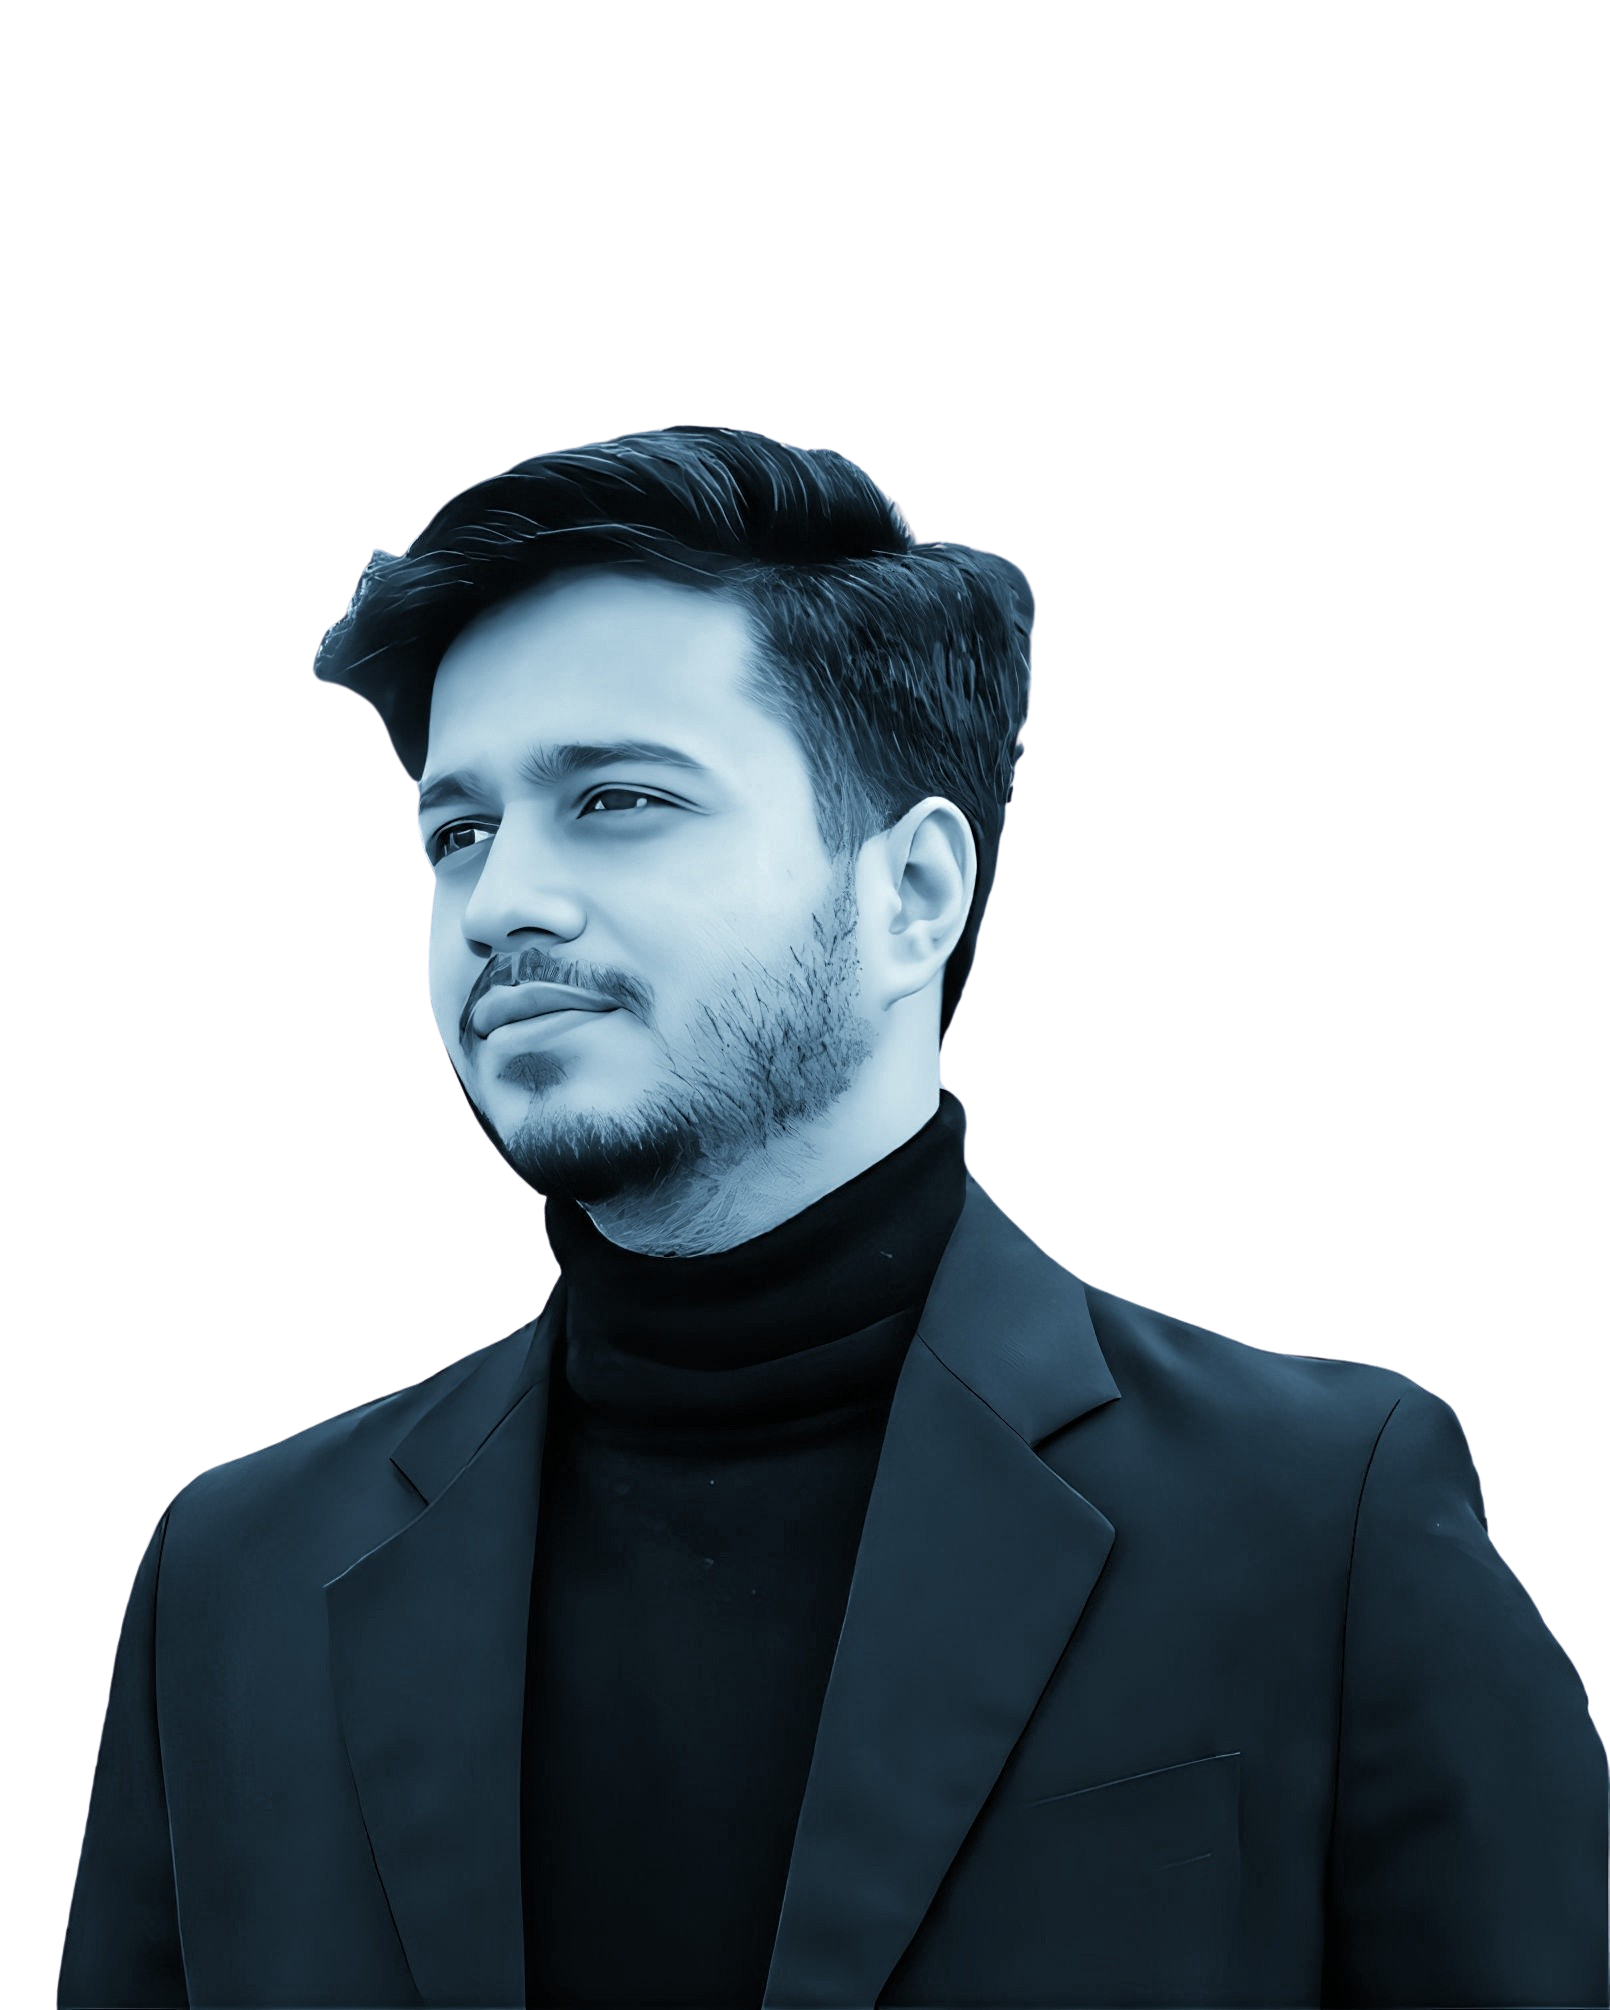
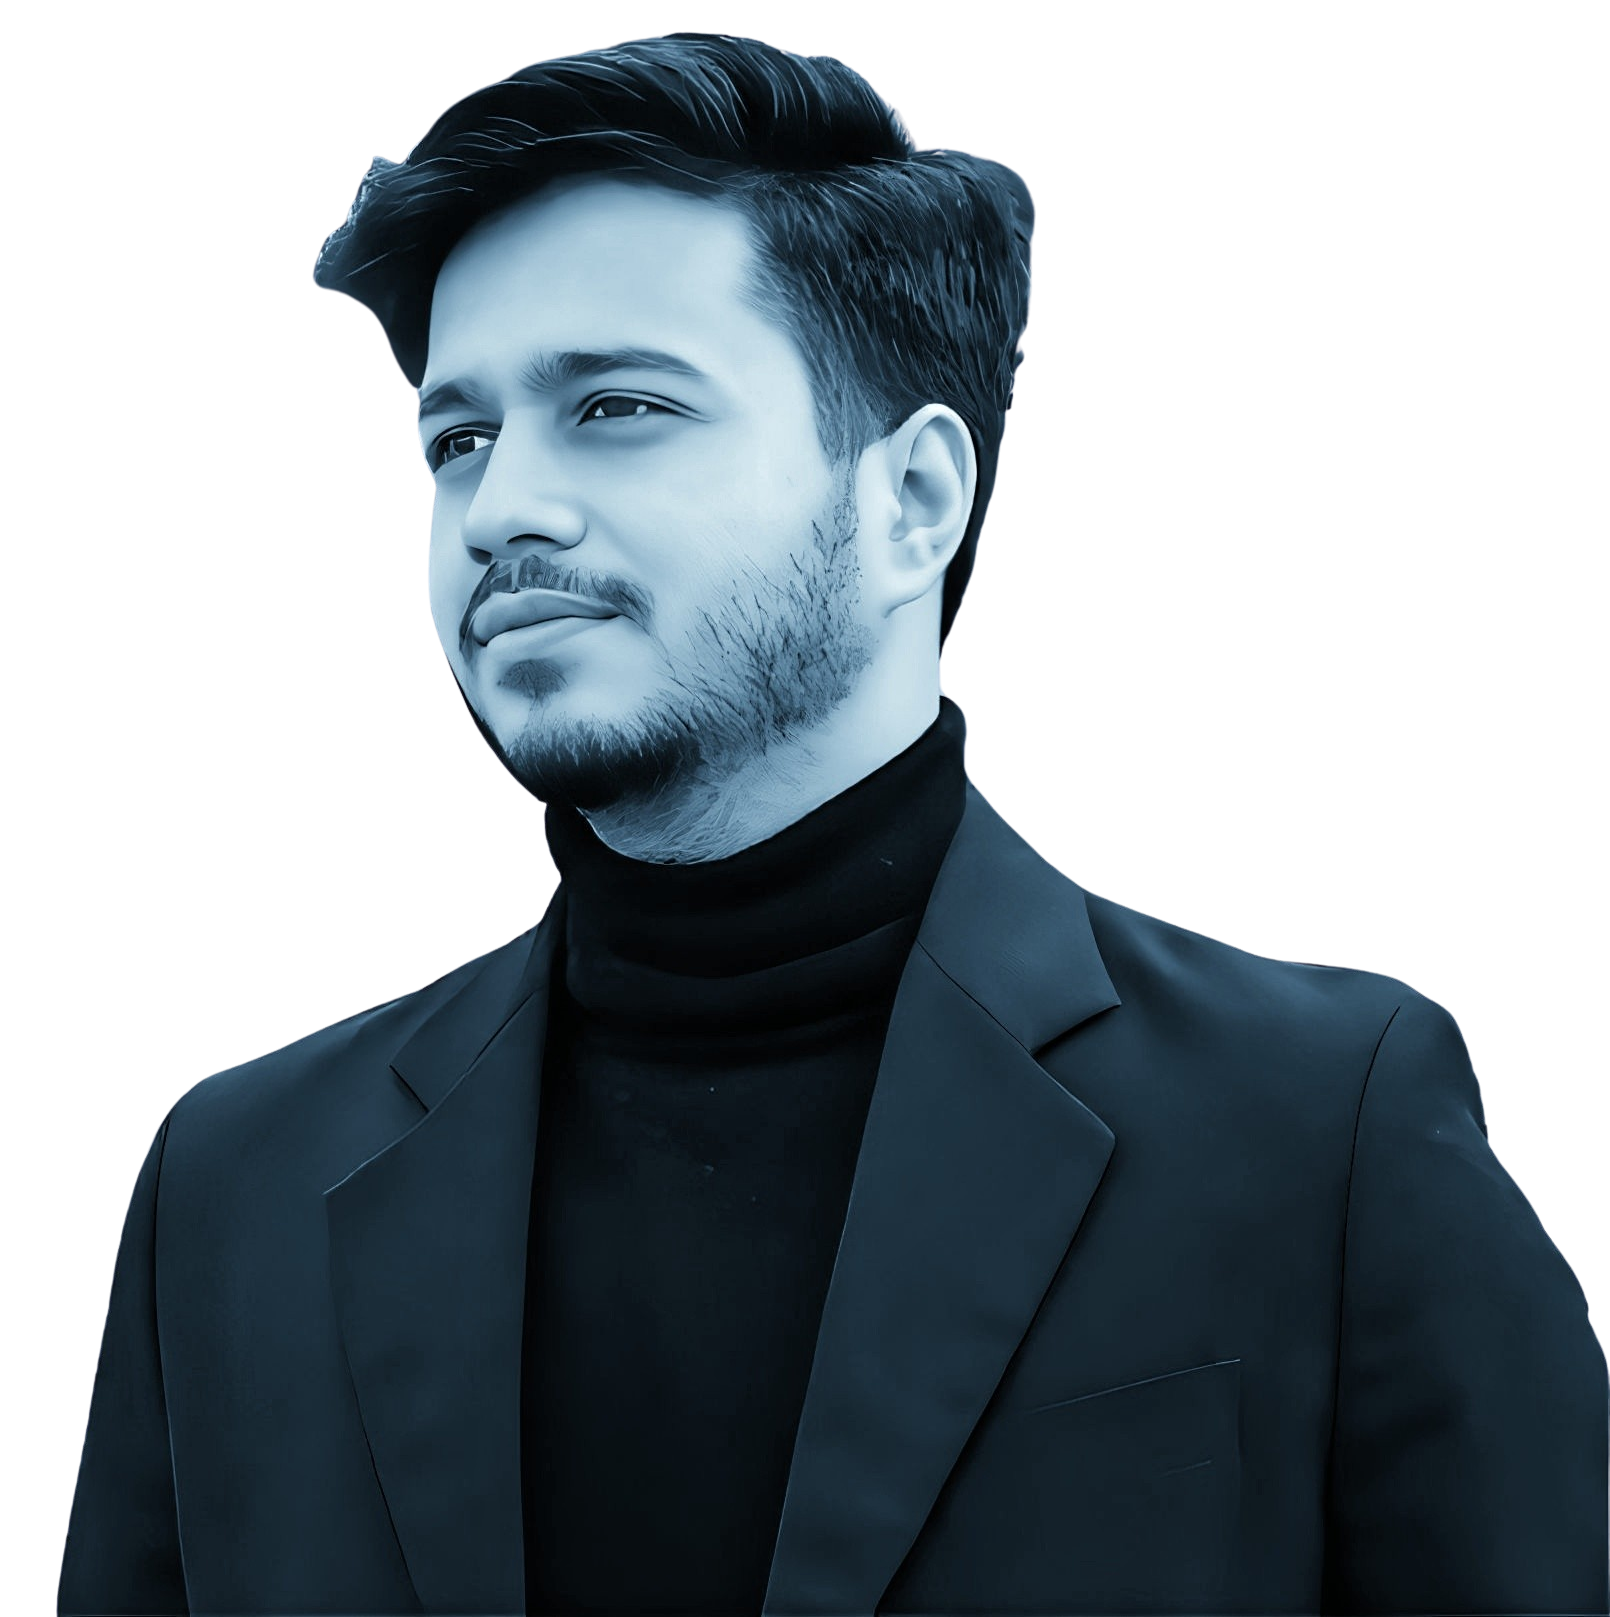
updated 24

diff --git a/src/components/skills.jsx b/src/components/skills.jsx
@@ -1,64 +1,152 @@
-import React from 'react'
-import arrow2 from '../assets/arrow02.png'
-import proj from '../assets/projects.png'
-import skill from '../assets/skills.png'
-import { motion } from "framer-motion"
-import { lang } from '../constants'
-import { Framework } from '../constants'
-import { tools } from '../constants'
-import Skill from './skill'
-import { Percent } from 'lucide-react'
-
+import React from "react";
+import arrow2 from "../assets/arrow02.png";
+import proj from "../assets/projects.png";
+import skill from "../assets/skills.png";
+import { motion } from "framer-motion";
+import { lang } from "../constants";
+import { Framework } from "../constants";
+import { tools } from "../constants";
+import Skill from "./skill";
+import underline from "../assets/underline.png";
+import { Code, Figma, Server, TabletSmartphone } from "lucide-react";
 
 const Skills = () => {
+
+  const skills = [
+  {
+    category: "UI/UX",
+    icon: Figma,
+    items: [
+      "Hands-on experience using Figma to design user-focused, creative, and modern interfaces",
+      "Created wireframes, high-fidelity designs, and reusable UI components in Figma",
+      "Built responsive designs optimized for desktop, tablet, and mobile devices",
+    ] 
+  },
+  {
+    category: "Web Development",
+    icon: Code,
+    items: [
+      "Developed SEO-friendly, high-performance web applications using Next.js, React.js, and TypeScript",
+      "Built full-stack web solutions using Next.js with Django, Node.js, and Express.js",
+      "Implemented secure authentication systems, admin dashboards, and role-based access control",
+      "Integrated RESTful APIs and third-party services for payments and dynamic features",
+      "Optimized applications for performance, scalability, and cross-browser compatibility",
+      "Worked with MongoDB and MySQL for efficient data management"
+    ]
+  },
+  {
+    category: "App Development",
+    icon: TabletSmartphone,
+    items: [
+      "Developed cross-platform desktop applications using Electron.js with offline and online support",
+      "Built cross-platform and mobile applications using Flutter and Dart",
+      "Ensured consistent UI and performance across Windows, macOS, and mobile platforms",
+      "Integrated APIs and local storage for real-world application use cases"
+    ]
+  },
+  {
+    category: "DevOps",
+    icon: Server,
+    items: [
+      "Used Git and GitHub for version control, collaboration, and code reviews",
+      "Implemented basic CI/CD pipelines for automated build and deployment",
+      "Worked with Docker for containerized development environments",
+      "Familiar with cloud services and application deployment workflows",
+      "Leveraged AI-powered development tools like GitHub Copilot to accelerate development"
+    ]
+  }
+]
   return (
-    <div className="container mx-auto px-4 lg:px-0 mt-[180px]">
-     <div className="flex justify-center gap-2">
-      <motion.div
-      animate={{ opacity: [1, 0.3, 1] }}
-      transition={{
-        duration: 2, 
-        ease: "easeInOut",
-        repeat: Infinity,
-        repeatType: "loop"
-      }}
-      >
-      <img className="w-[140px] lg:w-[190px]" src={skill} alt='me'/>
-      </motion.div>
-      <div className="mt-4">
-      <img className="w-[50px] lg:w-[70px]" src={arrow2} alt='me'/>
+    <div className="container mx-auto px-4 lg:px-16 mt-[180px]">
+      <div className="mb-16">
+        <motion.div
+          className="-rotate-12 max-w-fit"
+          animate={{ opacity: [1, 0.3, 1] }}
+          transition={{
+            duration: 2,
+            ease: "easeInOut",
+            repeat: Infinity,
+            repeatType: "loop",
+          }}
+        >
+          <span className="shadows-into-light-regular text-4xl lg:text-6xl font-bold mb-2">
+            Skills{" "}
+          </span>
+        </motion.div>
+
+        <img className="w-[250px]" src={underline} alt="contact" />
+      </div>
+
+      <div className="grid grid-cols-12 gap-6">
+        <div className="2xl:col-span-8 xl:col-span-7 lg:col-span-6 col-span-12">
+
+          {
+            skills.map((skillCategory, index) => (
+              <div key={index} className="mb-8">
+                <div className=" border-[#333841] pb-2 border-b-4 mb-4 w-fit flex gap-2">
+                  <skillCategory.icon color="#078086"/>
+                  
+                  <p className="text-lg lg:text-xl font-bold text-[#00ADB5]">{skillCategory.category}</p>
+
+                </div>
+
+                <ul className="list-disc list-inside text-[#EEEEEE] mb-6 space-y-2">
+                    {
+                      skillCategory.items.map((item, index) => (
+                        <li key={index} className="text-base lg:text-lg">
+                          {item}
+                        </li>
+                      ))
+                    }
+                  </ul>
+              </div>
+            ))
+          }
+          
+        </div>
+
+        <div className="2xl:col-span-4 xl:col-span-5 lg:col-span-6 col-span-12">
+          <div className="px-2 py-4 border-8 border-[#333841] rounded-xl">
+
+            <div className=" border-[#333841] pb-2 border-b-4 mb-4">
+              <p className="text-base lg:text-lg font-bold text-[#00ADB5]">Programming Languages</p>
+            </div>
+            <div className="grid grid-cols-12 gap-6">
+              {lang.map((l, index) => (
+                <div className="col-span-6" key={index}>
+                  <Skill title={l.title} percent={l.percent} />
+                </div>
+              ))}
+            </div>
+
+            <div className=" border-[#333841] pb-2 border-b-4 mt-6 mb-4">
+              <p className="text-base lg:text-lg font-bold text-[#00ADB5]">Tools & Libraries</p>
+            </div>
+
+            <div className="grid grid-cols-12 gap-6">
+              {Framework.map((f, index) => (
+                <div className="col-span-6" key={index}>
+                  <Skill title={f.title} percent={f.percent} />
+                </div>
+              ))}
+            </div>
+
+            <div className=" border-[#333841] pb-2 border-b-4 mt-6 mb-4">
+              <p className="text-base lg:text-lg font-bold text-[#00ADB5]">Frameworks</p>
+            </div>
+
+            <div className="grid grid-cols-12 gap-6">
+              {tools.map((t, index) => (
+                <div className="col-span-6" key={index}>
+                  <Skill title={t.title} percent={t.percent} />
+                </div>
+              ))}
+            </div>
+          </div>
+        </div>
       </div>
     </div>
-     <div className='my-[100px] w-[98%] lg:w-[70%] mx-auto'>
+  );
+};
 
-    
-    
-    <div className="mt-[50px] flex flex-wrap justify-center lg:justify-start  gap-4 lg:gap-16">
-     {lang.map((l,index)=>(
-        <div key={index}>
-          <Skill title={l.title} percent={l.percent}/>
-        </div>
-     ))}
-    </div>
-
-    <div className="mt-[50px] flex flex-wrap justify-center lg:justify-start gap-4 lg:gap-16">
-     {Framework.map((f,index)=>(
-        <div key={index}>
-          <Skill title={f.title} percent={f.percent}/>
-        </div>
-     ))}
-    </div>
-
-    <div className="mt-[50px] flex flex-wrap justify-center lg:justify-start gap-4 lg:gap-16">
-     {tools.map((t,index)=>(
-        <div key={index}>
-          <Skill title={t.title} percent={t.percent}/>
-        </div>
-     ))}
-    </div>
-    </div>
-    </div>
-  )
-}
-
-export default Skills
+export default Skills;

diff --git a/src/components/HeroSec.jsx b/src/components/HeroSec.jsx
@@ -10,13 +10,13 @@ import CV from '../assets/Ejaz Ahmed Resume.pdf'
 
 const HeroSec = () => {
   return (
-    <div className='container mx-auto px-4 lg:px-0'>
-    <div className="flex flex-col-reverse lg:flex-row justify-center items-center gap-[100px] lg:gap-[200px] my-[120px] lg:my-[200px]">
+    <div className='container mx-auto px-4'>
+    <div className="flex flex-col-reverse lg:flex-row justify-between items-center gap-[100px] my-[120px] lg:my-[200px]">
         <div className="flex justify-start items-center">
             <div className="mt-6 lg:block"><img className='h-[100px] lg:h-full w-8 lg:w-full' src={arrow1} alt='arrow1'/></div>
             <div>
             <h1 className="text-[#EEEEEE] text-4xl lg:text-8xl font-bold">EJAZ AHMED</h1>
-            <h1 className="text-[#EEEEEE] text-lg lg:text-4xl"><span className="text-[#00ADB5] text-2xl lg:text-6xl font-bold">SOFTWARE</span> Engineer</h1>
+            <h2 className="text-[#EEEEEE] text-lg lg:text-4xl"><span className="text-[#00ADB5] text-2xl lg:text-6xl font-bold">SOFTWARE</span> Engineer</h2>
             <div className="mt-10 flex justify-start">
             <a href={CV} download="Resume" className="bg-[#333841] py-2 lg:py-3 px-3 lg:px-4 text-[18px] lg:text-[22px] font-bold rounded-xl flex flex-shrink-1 items-center gap-2">
               <span>Download CV</span> 
@@ -25,7 +25,10 @@ const HeroSec = () => {
             </div>
             </div>
         </div>
-        <div className="relative">
+
+
+        <div className="flex justify-center items-center">
+          <div className="relative h-[168px] lg:h-[288px] w-[280px] lg:w-[450px] p-[40px]">
         <motion.div
          animate={{ scale: [1.1, 1, 1.1] }}
           transition={{
@@ -34,12 +37,12 @@ const HeroSec = () => {
             repeat: Infinity,
             repeatType: "loop"
           }}
-         className="absolute h-[40px] lg:h-[80px] w-[50px] lg:w-[110px] border-4 border-[#00ADB5] bg-transparent top-[-20px] lg:top-[-40px] left-[-20px] lg:left-[-60px]">
+         className="absolute h-[40px] lg:h-[60px] w-[50px] lg:w-[80px] border-4 border-[#00ADB5] bg-transparent top-[20px] lg:top-[10px] left-[20px] lg:left-[0]">
           </motion.div>
 
 
-            <div className="relative overflow-y-visible h-[168px] lg:h-[288px] w-[280px] lg:w-[450px] border-8 border-[#00ADB5] bg-transparent">
-            <img className="h-[290px] lg:h-[480px] mt-[-138px] lg:mt-[-208px] ml-[30px] lg:ml-[48px]" src={me} alt='me'/>
+            <div className="relative overflow-y-visible w-full h-full  border-8 border-[#00ADB5] bg-transparent">
+            <img className="absolute bottom-0 h-[185px] lg:h-[355px] object-contain" src={me} alt='me'/>
             </div>
 
 
@@ -51,9 +54,10 @@ const HeroSec = () => {
             repeat: Infinity,
             repeatType: "loop"
           }}
-         className="absolute h-[20px] lg:h-[50px] w-[25px] lg:w-[60px] bg-[#00ADB5] bottom-[-10px] lg:bottom-[-30px] right-[-10px] lg:right-[-40px]">
+         className="absolute h-[20px] lg:h-[40px] w-[25px] lg:w-[50px] bg-[#00ADB5] bottom-[20px] lg:bottom-[30px] right-[20px] lg:right-[10px]">
          </motion.div>
 
+        </div>
         </div>
     </div>
   

diff --git a/src/components/AboutSection.jsx b/src/components/AboutSection.jsx
@@ -4,7 +4,7 @@ import { motion } from "framer-motion"
 
 const AboutSection = () => {
   return (
-    <div className='container mx-auto px-4 lg:px-0'>
+    <div className='container mx-auto px-4'>
     <div className='flex flex-col lg:flex-row justify-center   lg:gap-[200px] mt-[250px] mb-[200px]'>
      <div className='hidden lg:block'>
      <div>
@@ -24,7 +24,7 @@ const AboutSection = () => {
      </div>
 
      </div>
-     <div className='max-w-[800px] text-justify text-base lg:text-2xl text-[#CCCCCC] flex flex-col gap-6 px-3'>
+     <div className='max-w-[800px] text-justify text-base lg:text-2xl text-[#CCCCCC] flex flex-col gap-6 p-6 border-8 border-[#00ADB5] rounded-xl'>
         <span className="shadows-into-light-regular text-4xl font-bold mb-4 lg:hidden">About Me </span>
         <p>
             I am a <strong>dedicated software engineer</strong> with a strong passion for building 

diff --git a/src/components/skill.jsx b/src/components/skill.jsx
@@ -8,7 +8,7 @@ const Skill = ({title,percent}) => {
     var wid = percent.toString() + "%";
   return (
     <>
-    <div className='w-[160px] lg:w-[250px]'>
+    <div className='w-full max-w-[160px] lg:max-w-[250px]'>
         <div className='flex w-full justify-between text-[#EEEEEE] text-md lg:text-lg font-medium'>
           <p>
             {title}
